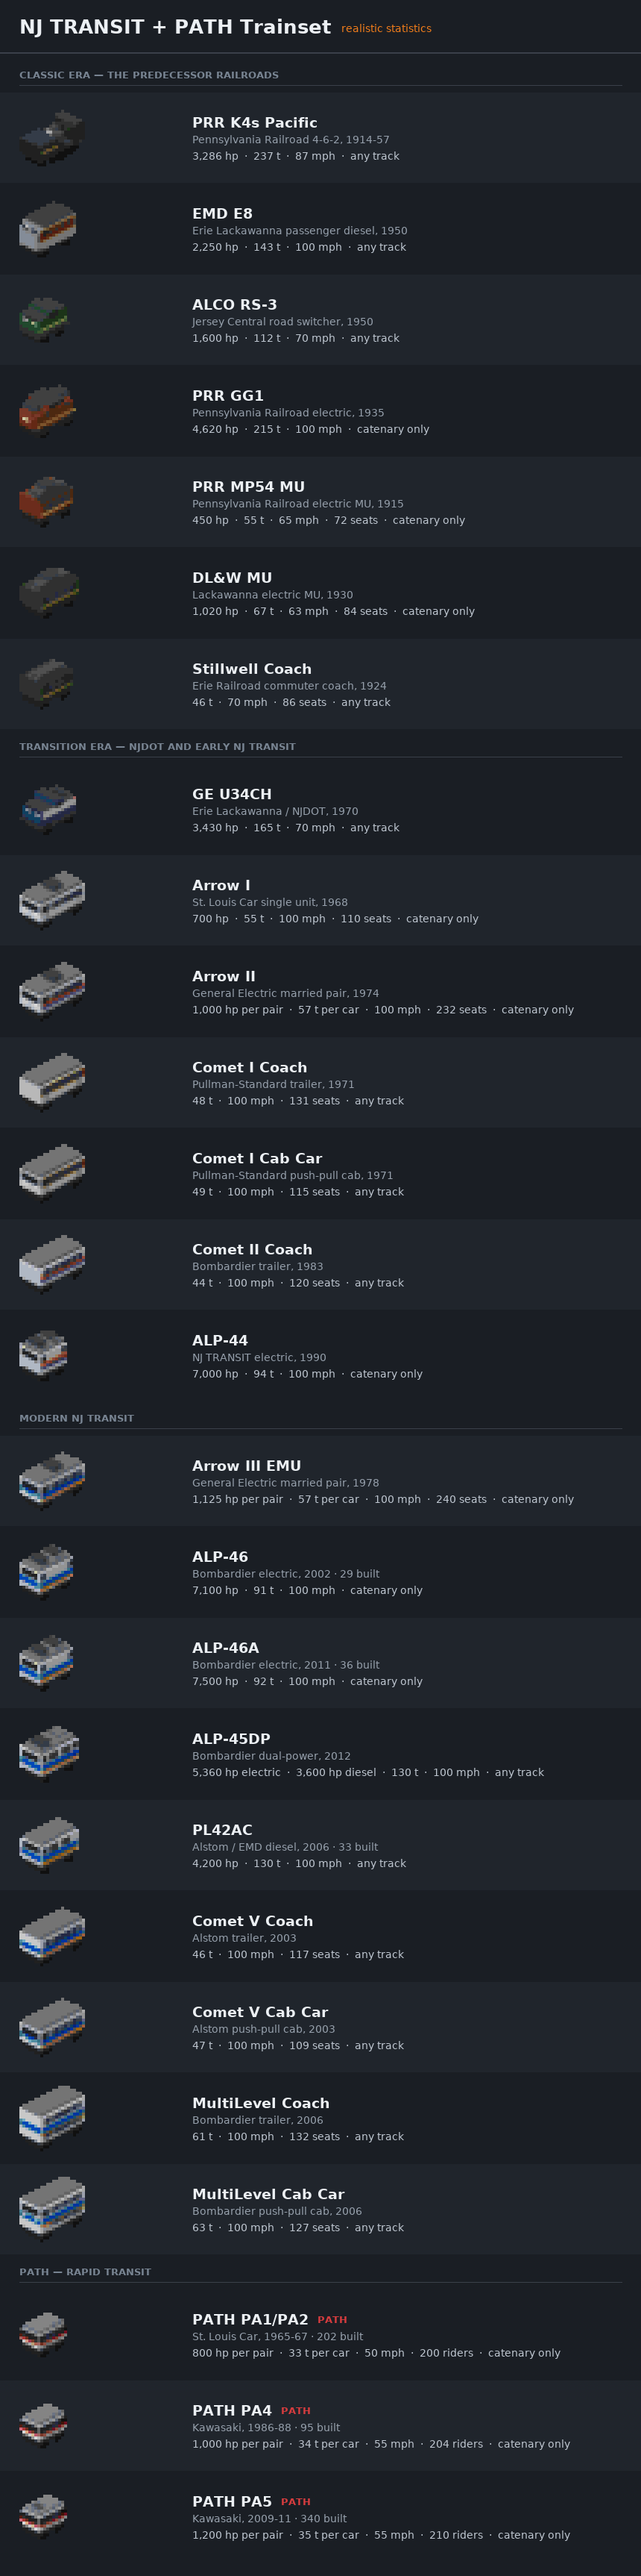
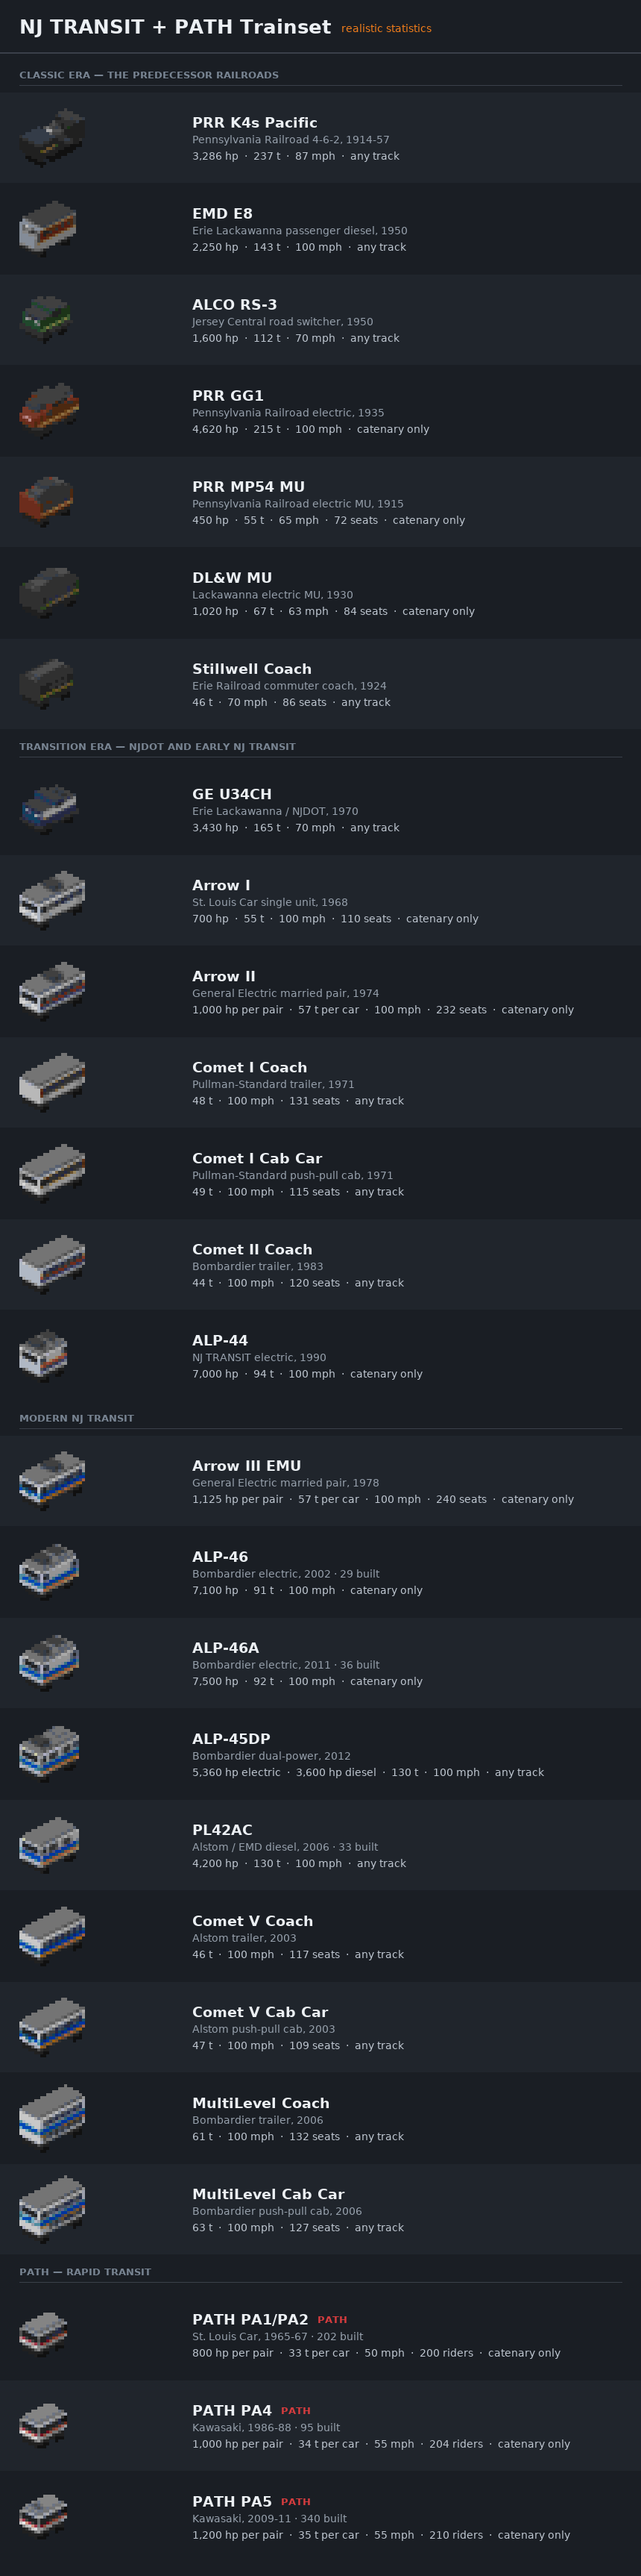
Cross-platform font lookup for make_roster.py
FONT_DIR was hardcoded to the Debian/Ubuntu DejaVu path, so `make roster`
failed on macOS with a bare "cannot open resource" from PIL - no hint of
what was actually missing. Now checks a short list of paths covering
Homebrew, macOS system fonts and the common Linux packages, and fails
with the install command for each platform if none of them exist.

Installed DejaVu via `brew install --cask font-dejavu` on this machine
and confirmed `make all` builds clean end to end.

diff --git a/make_roster.py b/make_roster.py
@@ -1,6 +1,8 @@
 #!/usr/bin/env python3
 """Render labelled roster images for both stat sets."""
 
+import os
+
 import numpy as np
 from PIL import Image, ImageDraw, ImageFont
 from nml import palette as nmlpal
@@ -11,7 +13,29 @@ CW, CH = 52, 40
 SCALE = 4
 PAL = np.array(nmlpal.raw_palette_data[0]).reshape(256, 3)
 
-FONT_DIR = "/usr/share/fonts/truetype/dejavu/"
+# DejaVu Sans ships under different paths per platform/package manager. Check
+# them in order and use whichever exists; `brew install --cask font-dejavu`
+# on macOS and the dejavu-fonts-ttf / fonts-dejavu-core package on Linux both
+# land in one of these.
+_FONT_DIRS = [
+    os.path.expanduser("~/Library/Fonts"),               # macOS, Homebrew cask
+    "/Library/Fonts",                                     # macOS, system-wide
+    "/usr/share/fonts/truetype/dejavu",                   # Debian/Ubuntu
+    "/usr/share/fonts/dejavu-sans-fonts",                 # Fedora/RHEL
+    "/usr/share/fonts/dejavu",                             # Arch
+]
+FONT_DIR = next((d for d in _FONT_DIRS
+                  if os.path.exists(os.path.join(d, "DejaVuSans.ttf"))), None)
+if FONT_DIR is None:
+    raise SystemExit(
+        "make_roster.py needs DejaVu Sans and couldn't find it in any of:\n  "
+        + "\n  ".join(_FONT_DIRS)
+        + "\n\nInstall it and re-run:\n"
+          "  macOS:  brew install --cask font-dejavu\n"
+          "  Debian/Ubuntu: sudo apt install fonts-dejavu-core\n"
+          "  Fedora: sudo dnf install dejavu-sans-fonts")
+FONT_DIR = FONT_DIR + os.sep
+
 f_name = ImageFont.truetype(FONT_DIR + "DejaVuSans-Bold.ttf", 19)
 f_spec = ImageFont.truetype(FONT_DIR + "DejaVuSans.ttf", 14)
 f_head = ImageFont.truetype(FONT_DIR + "DejaVuSans-Bold.ttf", 26)
